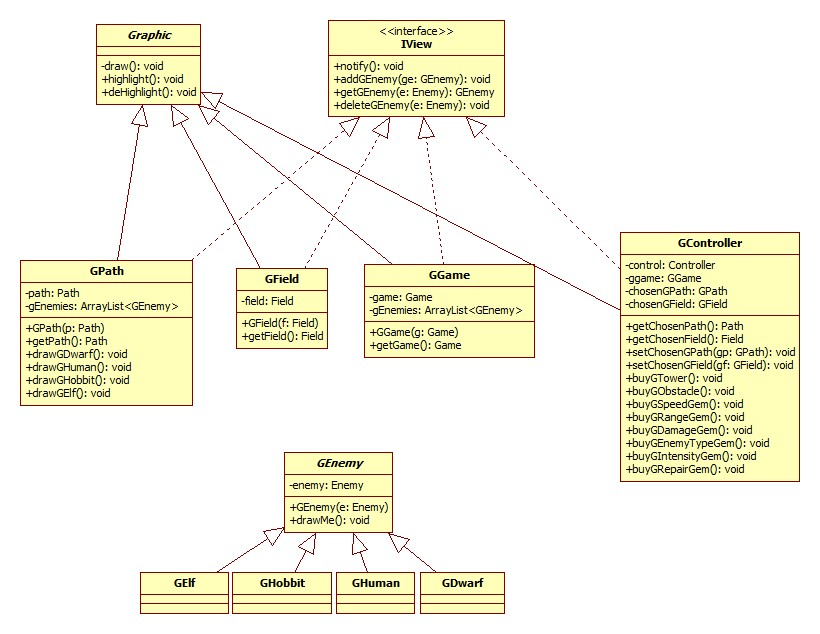
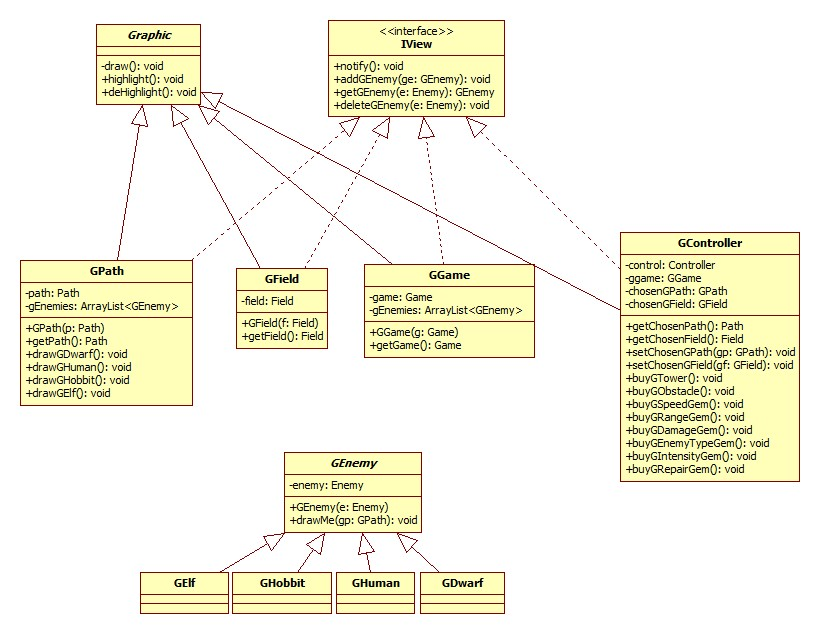
GEnemy drawMe(gp: GPath)

diff --git a/Dokumentacio_latex/szoftlab4/chapters/chapter11/sablon11.tex b/Dokumentacio_latex/szoftlab4/chapters/chapter11/sablon11.tex
@@ -132,7 +132,7 @@ Nincs
 \end{description}
 \item Metódusok\\
 	\begin{description}
-		\item[+drawMe(): void] Ez a metódus gondoskodik arról, hogy a megfelelő típusú Enemy kirajzolása történjen meg a Path-on.
+		\item[+drawMe(gp: GPath): void] Ez a metódus gondoskodik arról, hogy a megfelelő típusú Enemy kirajzolása történjen meg a Path-on. Visszahívja gp az enemy típusának megfelelő drawXXX() metódust.
 		\item[+GEnemy(e: Enemy)] Konstruktor.
 	\end{description}
 \end{itemize}
@@ -184,7 +184,9 @@ Nincs
 \item Metódusok\\
 	\begin{description}
 		\item[+notify()] void: Alap értesítő metódus.
-		\item[+notify(ge: GEnemy)] void: Értesítő metódus Enemy és GEnemyk kezeléséhez. Pl Enemy létrehozásakor vele azonos típusú GEnemy-t hozunk létre, amit odaadunk a megfelelő megjelenítőnek.
+		\item[+addGEnemy(ge: GEnemy)] void: Hozzáadunk az iview-hoz egy GEnemy-t.
+		\item[+getGEnemy(e: Enemy)] void: Lekérjük az e-hez tartozó GEnemy-t az iview-ból.
+		\item[+deleteGEnemy(e: Enemy)] void: Töröljük az e-hez tartozó GEnemy-t az iview-ból.
 	\end{description}
 \end{itemize}
 
